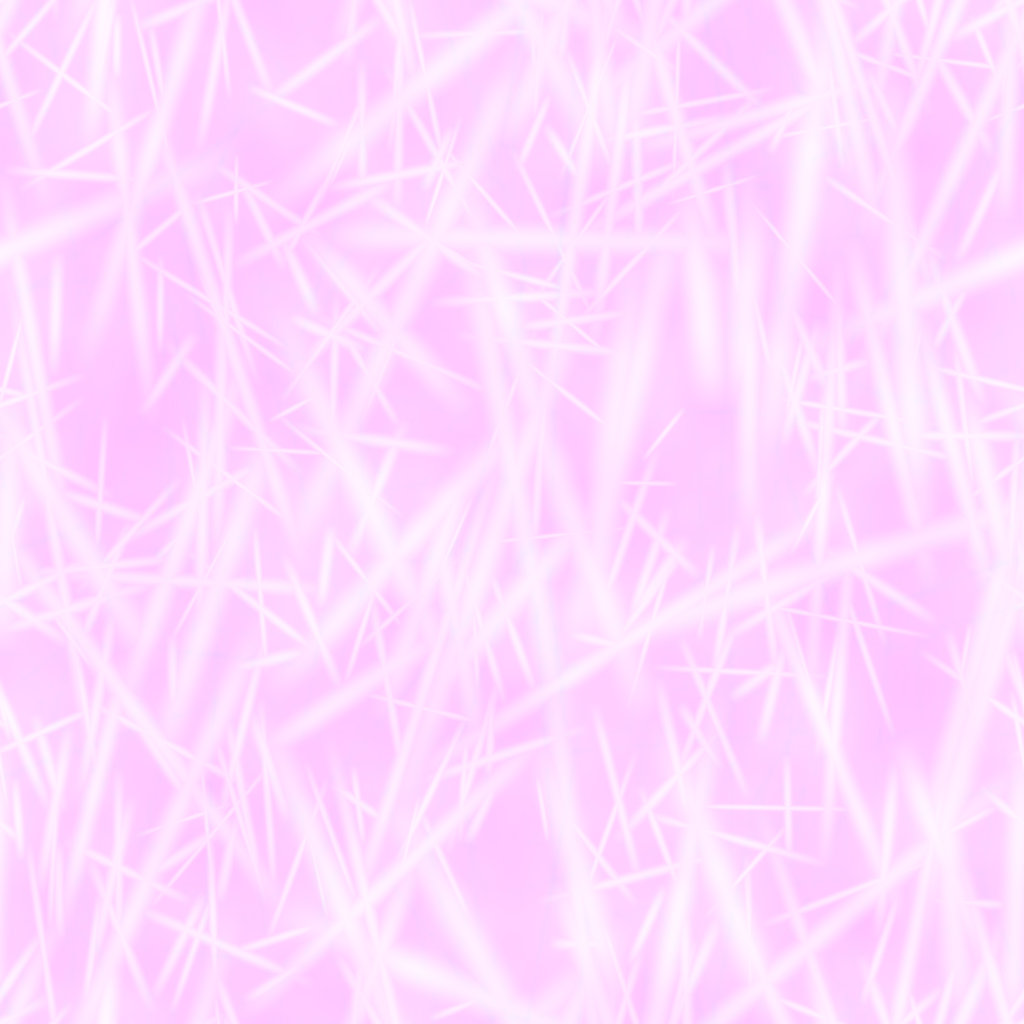
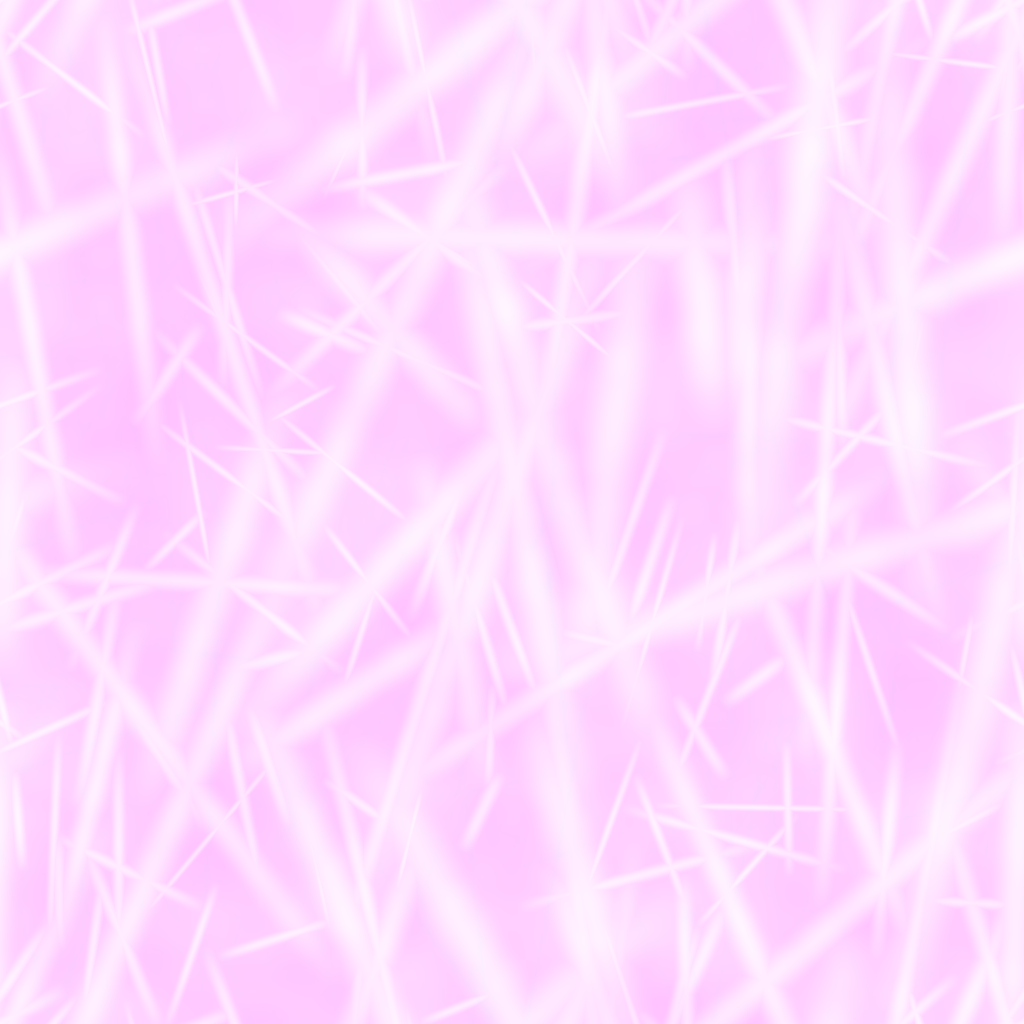
vehicle-pad: MLI folds larger and fewer; request vehicle-pad-6 (thin frost as a veil)
Claude-Session: https://claude.ai/code/session_01PzbhGSo8poSxwMDC2bD922

diff --git a/tools/vehicle/bake-textures.ts b/tools/vehicle/bake-textures.ts
@@ -515,7 +515,8 @@ const recipes: Record<string, () => void> = {
     // flanks (a tent across it, tapering at its ends), laid over one another. Where folds cross, the flanks
     // meet in more creases, so the surface is a mosaic of flat facets of every size between sharp crease
     // lines, which is what turns a highlight into the long glints and dark folds of the photographs. Two
-    // families: long hanging folds of 25-70 cm mostly along v, and short ones of 8-25 cm in any direction.
+    // families: long hanging folds of 30-90 cm mostly along v, and fewer, gentler short ones of 10-30 cm (a
+    // dense crinkle of mirror facets turns into black-and-white static from a few metres).
     const folds = new Field(S, S);
     const crest = new Field(S, S);
     const fold = (k: number, seed: number, lMin: number, lMax: number, wMin: number, wMax: number, aMin: number, aMax: number, hang: number): void => {
@@ -548,8 +549,8 @@ const recipes: Record<string, () => void> = {
         }
       }
     };
-    for (let k = 0; k < 150; k++) fold(k, 131, 0.25, 0.7, 0.05, 0.13, 0.006, 0.015, 0.7);
-    for (let k = 0; k < 520; k++) fold(k, 132, 0.08, 0.25, 0.018, 0.05, 0.0012, 0.0034, 0.3);
+    for (let k = 0; k < 95; k++) fold(k, 131, 0.3, 0.9, 0.06, 0.18, 0.005, 0.012, 0.7);
+    for (let k = 0; k < 240; k++) fold(k, 132, 0.1, 0.3, 0.02, 0.06, 0.0008, 0.0022, 0.3);
     // A broad sag between the stand-off buttons under it.
     const h = Field.from(S, S, (u, v, x, y) => 0.006 * fbm(u, v, 3, 3, 2, 125) + folds.at(x, y));
     const creaseA = (_u: number, _v: number, x: number, y: number): number => crest.at(x, y);

diff --git a/docs/requests/vehicle-pad-6.md b/docs/requests/vehicle-pad-6.md
@@ -1,0 +1,38 @@
+Status: open
+From: vehicle-pad
+Owner path: src/render/core/mesh/meshSystem.ts (MATERIAL_STANDARD branch of the G-buffer fragment shader: the frost layer of request vehicle-pad-1)
+Blocking: no (visual QA round 1, item 4 "frost on the tanks", blocker in the artifact list; my side is done as far as vertex weights go)
+
+## Problem
+The frost layer is all-or-nothing per break-up cell: `layerCoverage` thresholds a 3 cm x 25 cm noise against
+the weight, so a THIN coat (weight 0.25-0.5) is drawn as a few fully white vertical streaks over bare paint.
+Over a marking that cuts the letters into stripes ("CAUTION CRYO GENIC"), so the package now keeps the weight
+over markings at 0.27 (almost no streaks). Real thin frost is a veil: markings under it keep their edges and
+lose contrast, and the paint next to a marking frosts like the rest. Today the bare paint round a marking reads
+as a wiped window in the coat (gloss paint reflecting the sky beside matte frost).
+
+## Evidence
+`out/screens/vehicle/frost-line-prelaunch.png` (LOX stencil and placard: the grey, glossy window round them),
+`frost-prelaunch.png` (roundel); weights in `src/render/vehicle/parts/stage.ts` (`frostFilm`, the 0.27 over
+markings); `src/render/core/mesh/meshSystem.ts:191-195`.
+
+## Requested change
+Keep the cell break-up for the coat and add a translucent veil under it that follows the weight itself:
+
+```wgsl
+let wF = saturate(I.params.z * v.masks.a);
+let frost = layerCoverage(wF, uvm, 19);
+let veil = 0.55 * smoothstep(0.0, 0.6, wF);      // thin frost: a matte haze, no cells
+let f = max(frost, veil);
+albedo = mix(albedo, vec3f(0.93, 0.95, 0.97), f);
+roughness = mix(roughness, 0.85, f);
+metallic *= 1.0 - f;
+coat = (1.0 - soot) * (1.0 - max(frost, 0.8 * veil));
+```
+
+(exact numbers at your choice: what matters is that a weight of 0.3-0.5 gives an even haze that takes 30-50 %
+of a marking's contrast and the clear coat's sheen, with few or no solid cells). Must NOT change: weight 0 = no
+frost at all (the shed state), weight 1 = today's solid coat, soot, the site (terrain-shading) branch.
+
+Workaround in my paths: markings carry a weight of 0.27 (nearly bare, letters whole); once the veil exists I will
+raise it to about 0.45 so they are ghosted under the coat as in the photographs.
